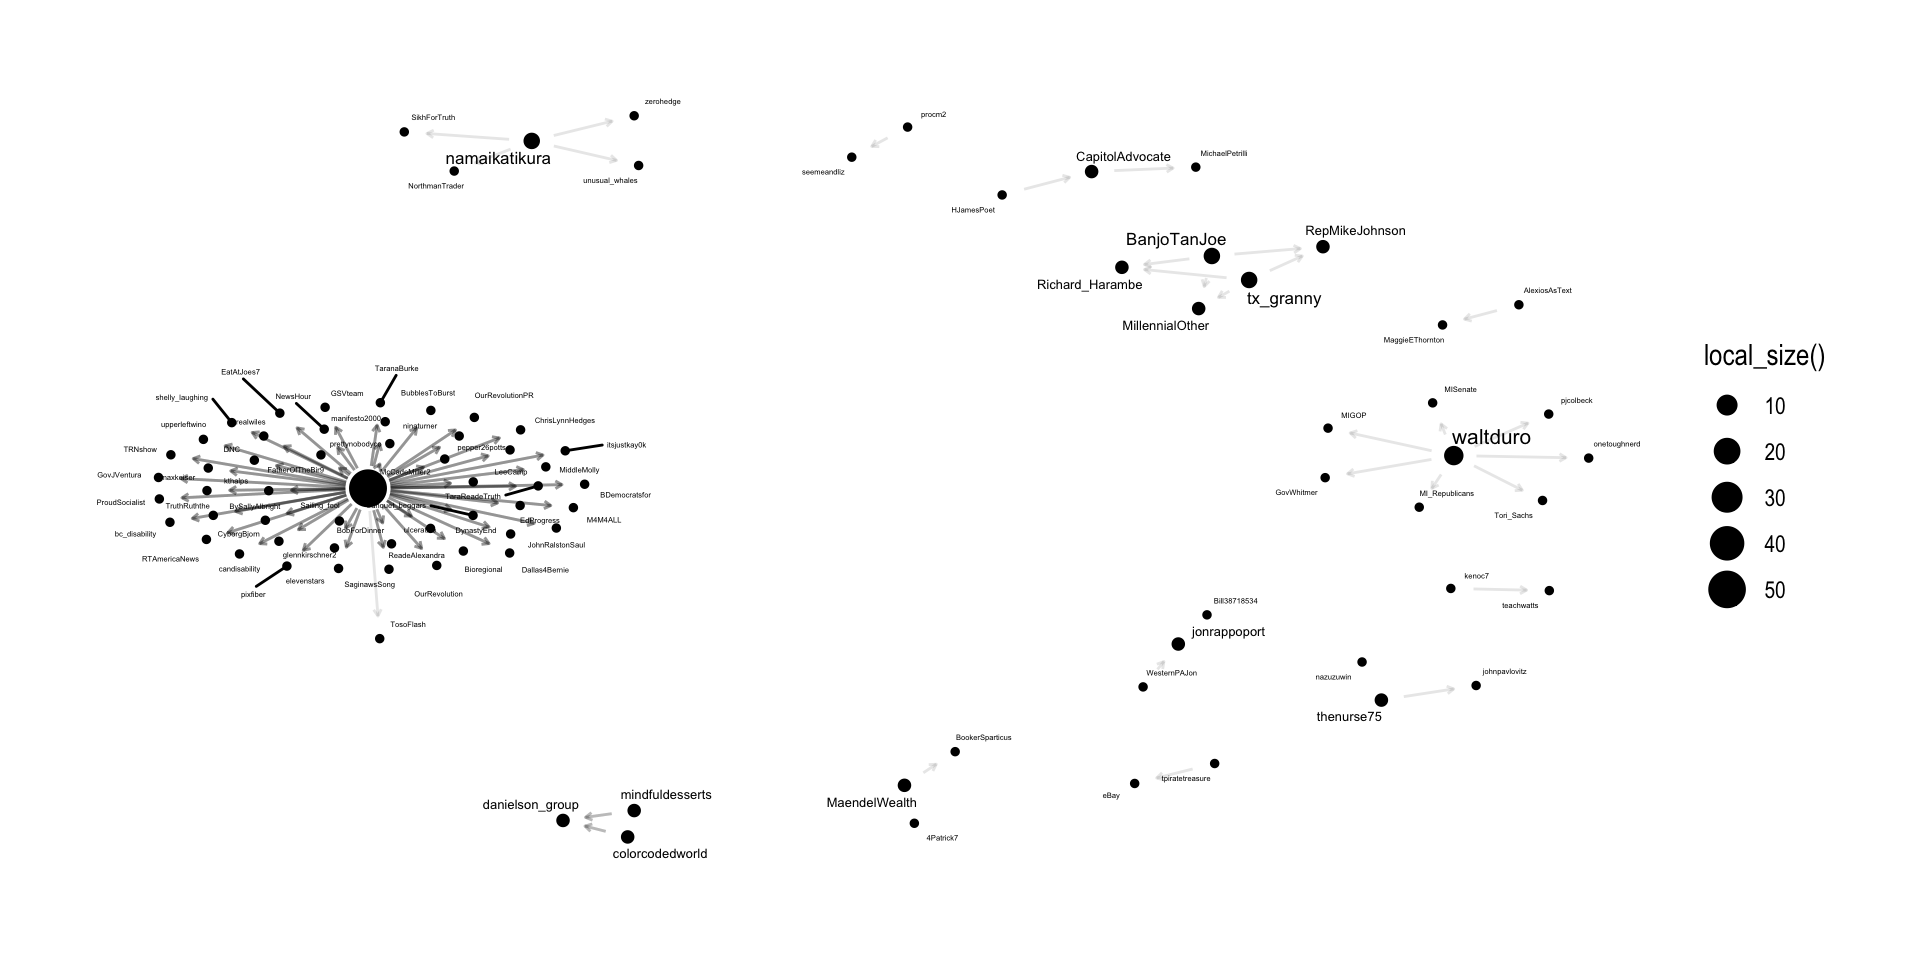
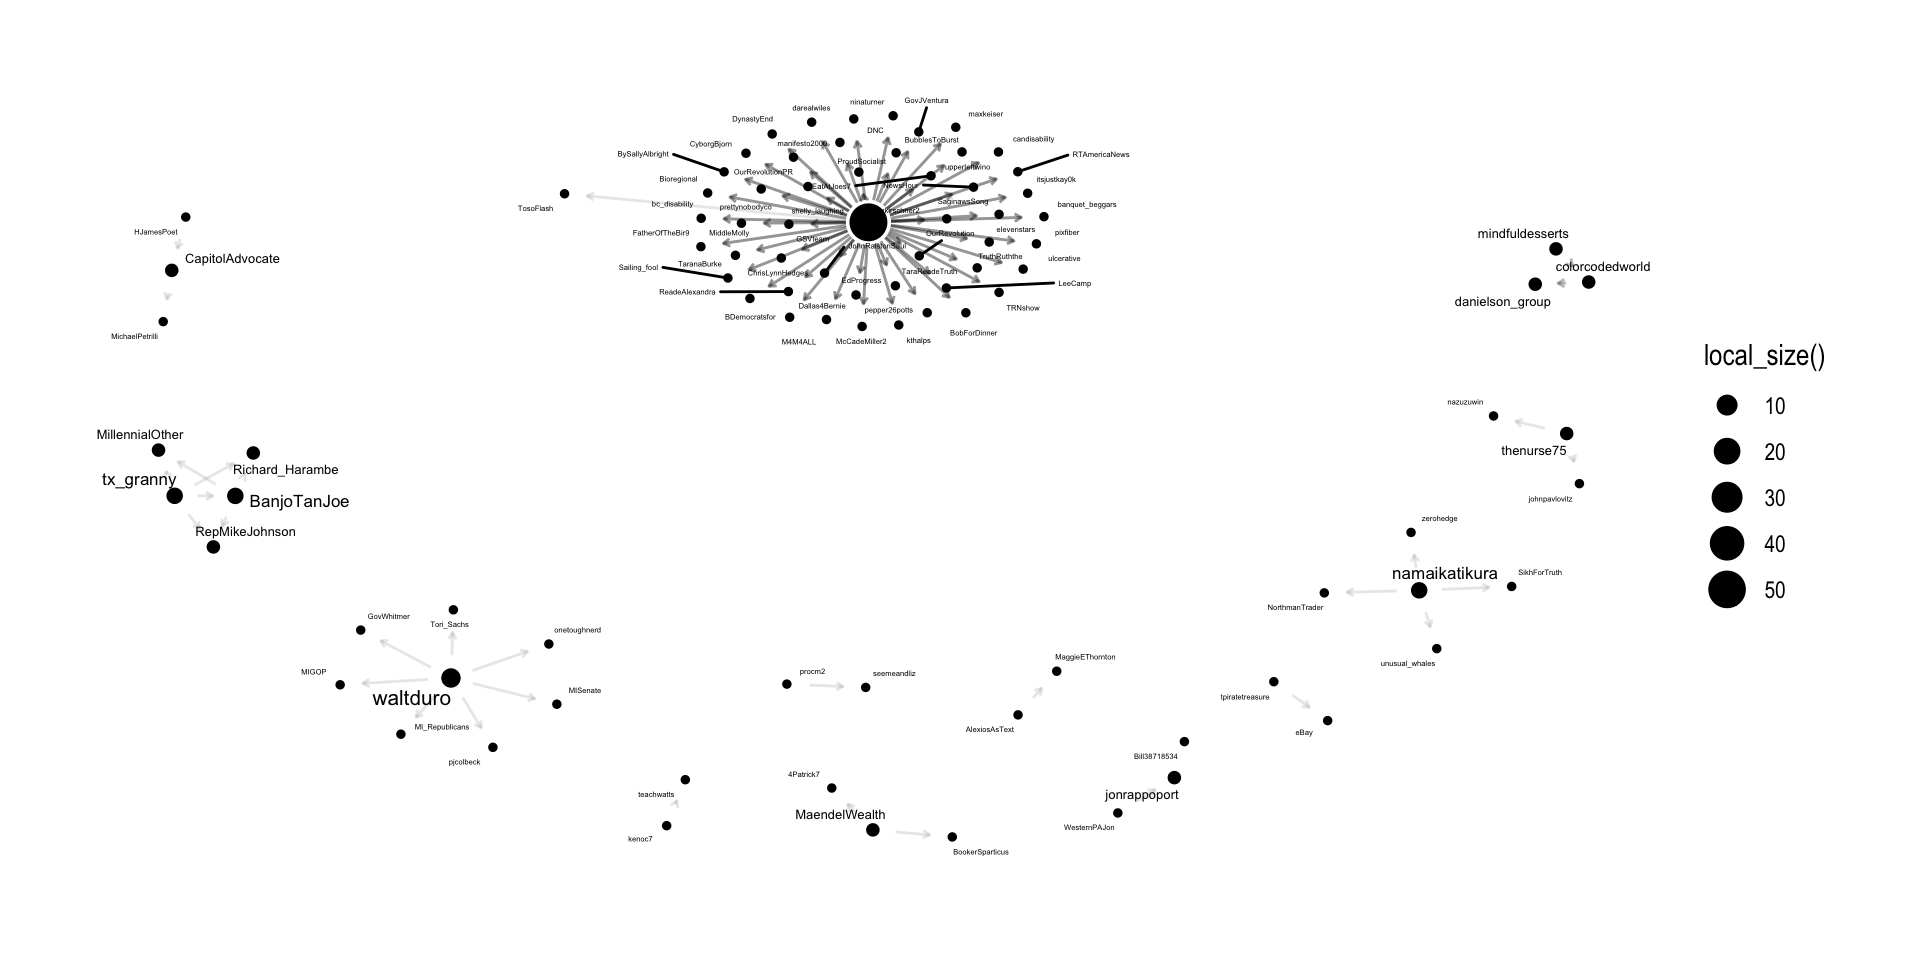
adjusted figure size and width

diff --git a/module-3/sna-3-code-along-R.html b/module-3/sna-3-code-along-R.html
@@ -525,7 +525,7 @@
 <div class="tab-content">
 <div id="tabset-2-1">
 <p>Let’s start by creating a new R script and loading the following packages introduced in previous modules:</p>
-<div class="cell">
+<div class="cell" data-layout-align="center">
 <div class="sourceCode cell-code" id="cb1"><pre class="sourceCode numberSource r number-lines code-with-copy"><code class="sourceCode r"><span id="cb1-1"><a href=""></a><span class="fu">library</span>(tidyverse)</span>
 <span id="cb1-2"><a href=""></a><span class="fu">library</span>(igraph)</span>
 <span id="cb1-3"><a href=""></a><span class="fu">library</span>(tidygraph)</span>
@@ -598,11 +598,11 @@
 <span id="cb5-10"><a href=""></a>  <span class="fu">theme_graph</span>()</span></code><button title="Copy to Clipboard" class="code-copy-button"><i class="bi"></i></button></pre></div>
 </div>
 <div id="tabset-3-4">
-<div class="cell">
+<div class="cell" data-layout-align="center">
 <div class="cell-output-display">
-<div>
+<div class="quarto-figure quarto-figure-center">
 <figure>
-<p><img data-src="sna-3-code-along-R_files/figure-revealjs/unnamed-chunk-5-1.png" width="960"></p>
+<p><img data-src="sna-3-code-along-R_files/figure-revealjs/unnamed-chunk-5-1.png" class="quarto-figure quarto-figure-center" style="width:90.0%;height:90.0%"></p>
 </figure>
 </div>
 </div>
@@ -655,7 +655,7 @@
 <div id="tabset-4-2">
 <p>A weak component, as illustrated by the graph generated by the code below, ignores the direction of a tie:</p>
 <p><br></p>
-<div class="cell">
+<div class="cell" data-layout-align="center">
 <div class="sourceCode cell-code" id="cb6"><pre class="sourceCode numberSource r number-lines code-with-copy"><code class="sourceCode r"><span id="cb6-1"><a href=""></a><span class="fu">autograph</span>(ccss_network)</span></code><button title="Copy to Clipboard" class="code-copy-button"><i class="bi"></i></button></pre></div>
 </div>
 <p><br></p>
@@ -665,11 +665,11 @@
 </blockquote>
 </div>
 <div id="tabset-4-3">
-<div class="cell">
+<div class="cell" data-layout-align="center">
 <div class="cell-output-display">
-<div>
+<div class="quarto-figure quarto-figure-center">
 <figure>
-<p><img data-src="sna-3-code-along-R_files/figure-revealjs/unnamed-chunk-6-1.png" width="960"></p>
+<p><img data-src="sna-3-code-along-R_files/figure-revealjs/unnamed-chunk-6-1.png" class="quarto-figure quarto-figure-center" style="width:90.0%;height:90.0%"></p>
 </figure>
 </div>
 </div>
@@ -678,14 +678,14 @@
 <div id="tabset-4-4">
 <p>The {igraph} package has a simple <code>components()</code> function for identifying the number of components in a network, the size of each component, and which actors belong to each.</p>
 <p><br></p>
-<div class="cell">
+<div class="cell" data-layout-align="center">
 <div class="sourceCode cell-code" id="cb7"><pre class="sourceCode numberSource r number-lines code-with-copy"><code class="sourceCode r"><span id="cb7-1"><a href=""></a><span class="fu">components</span>(ccss_network, <span class="at">mode =</span> <span class="fu">c</span>(<span class="st">"strong"</span>))</span></code><button title="Copy to Clipboard" class="code-copy-button"><i class="bi"></i></button></pre></div>
 </div>
 <p><br></p>
 <p>How many “strong” components are in our network?</p>
 </div>
 <div id="tabset-4-5">
-<div class="cell">
+<div class="cell" data-layout-align="center">
 <div class="cell-output cell-output-stdout">
 <pre><code>$membership
  [1] 91 92 86 87 90 89 88 84 85 81 83 82 73 80 79 78 77 76 75 74 71 72 70 69 67
@@ -733,22 +733,22 @@ $no
 <div class="sourceCode" id="cb10"><pre class="sourceCode numberSource r number-lines code-with-copy"><code class="sourceCode r"><span id="cb10-1"><a href=""></a><span class="fu">cliques</span>(ccss_network, <span class="at">min =</span> <span class="dv">3</span>, <span class="at">max =</span> <span class="cn">NULL</span>)</span></code><button title="Copy to Clipboard" class="code-copy-button"><i class="bi"></i></button></pre></div>
 </div>
 <div id="tabset-5-4">
-<div class="cell">
+<div class="cell" data-layout-align="center">
 <div class="cell-output cell-output-stdout">
 <pre><code>[[1]]
-+ 3/92 vertices, from 48946af:
++ 3/92 vertices, from a958a0b:
 [1] 35 36 37
 
 [[2]]
-+ 3/92 vertices, from 48946af:
++ 3/92 vertices, from a958a0b:
 [1] 3 4 7
 
 [[3]]
-+ 3/92 vertices, from 48946af:
++ 3/92 vertices, from a958a0b:
 [1] 3 4 6
 
 [[4]]
-+ 3/92 vertices, from 48946af:
++ 3/92 vertices, from a958a0b:
 [1] 3 4 5</code></pre>
 </div>
 </div>
@@ -775,7 +775,7 @@ $no
 <p><br></p>
 <p>To use it, we’ll need to <code>activate()</code> our <code>nodes</code> and create a new node-level variable using <code>mutate()</code> from the {dplyr} package:</p>
 <p><br></p>
-<div class="cell">
+<div class="cell" data-layout-align="center">
 <div class="sourceCode cell-code" id="cb12"><pre class="sourceCode numberSource r number-lines code-with-copy"><code class="sourceCode r"><span id="cb12-1"><a href=""></a>ccss_network <span class="ot">&lt;-</span> ccss_network <span class="sc">|&gt;</span></span>
 <span id="cb12-2"><a href=""></a>  <span class="fu">activate</span>(nodes) <span class="sc">|&gt;</span></span>
 <span id="cb12-3"><a href=""></a>  <span class="fu">mutate</span>(<span class="at">in_degree =</span> <span class="fu">centrality_degree</span>(<span class="at">mode =</span> <span class="st">"in"</span>),</span>
@@ -785,7 +785,7 @@ $no
 <div id="tabset-6-3">
 <p>Let’s take a look at our network now.</p>
 <p><br></p>
-<div class="cell">
+<div class="cell" data-layout-align="center">
 <div class="sourceCode cell-code" id="cb13"><pre class="sourceCode numberSource r number-lines code-with-copy"><code class="sourceCode r"><span id="cb13-1"><a href=""></a>ccss_network</span></code><button title="Copy to Clipboard" class="code-copy-button"><i class="bi"></i></button></pre></div>
 <div class="cell-output cell-output-stdout">
 <pre><code># A tbl_graph: 92 nodes and 289 edges
@@ -823,7 +823,7 @@ $no
 <p>💡<strong>Hint</strong>: Consider using the activate() function again along with standard {dpylr} functions for arranging columns by order.</p>
 </div>
 <div id="tabset-6-5">
-<div class="cell">
+<div class="cell" data-layout-align="center">
 <div class="sourceCode cell-code" id="cb16"><pre class="sourceCode numberSource r number-lines code-with-copy"><code class="sourceCode r"><span id="cb16-1"><a href=""></a>ccss_network <span class="sc">|&gt;</span></span>
 <span id="cb16-2"><a href=""></a>  <span class="fu">activate</span>(nodes) <span class="sc">|&gt;</span></span>
 <span id="cb16-3"><a href=""></a>  <span class="fu">arrange</span>(<span class="fu">desc</span>(out_degree))</span></code><button title="Copy to Clipboard" class="code-copy-button"><i class="bi"></i></button></pre></div>
